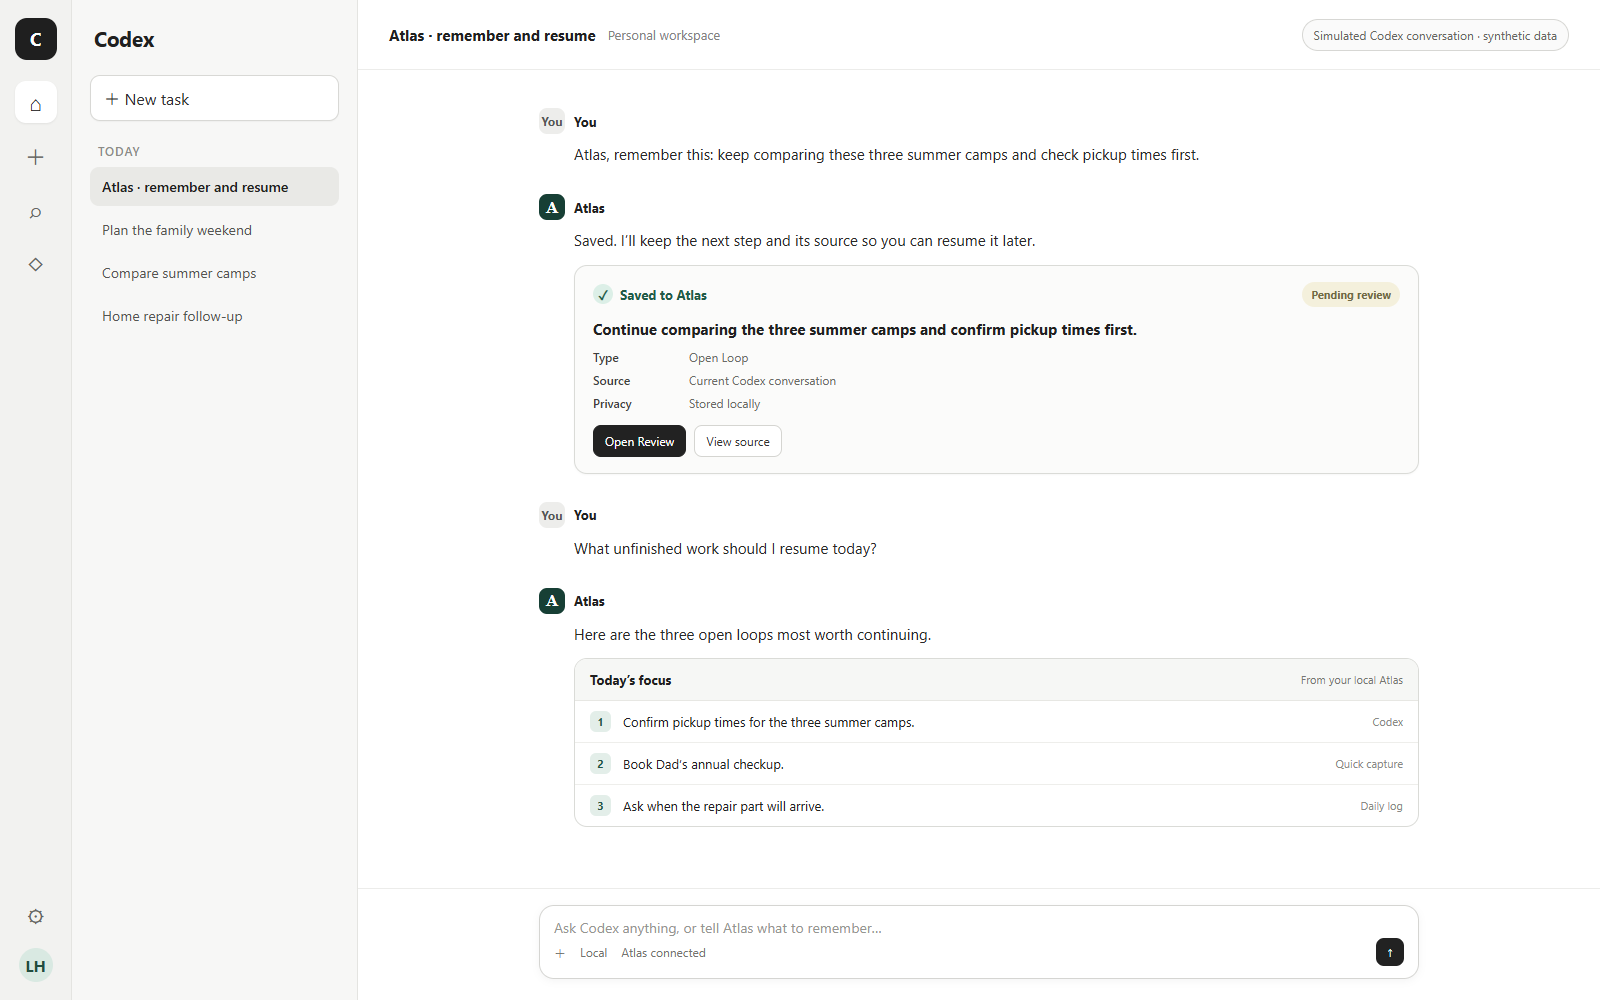
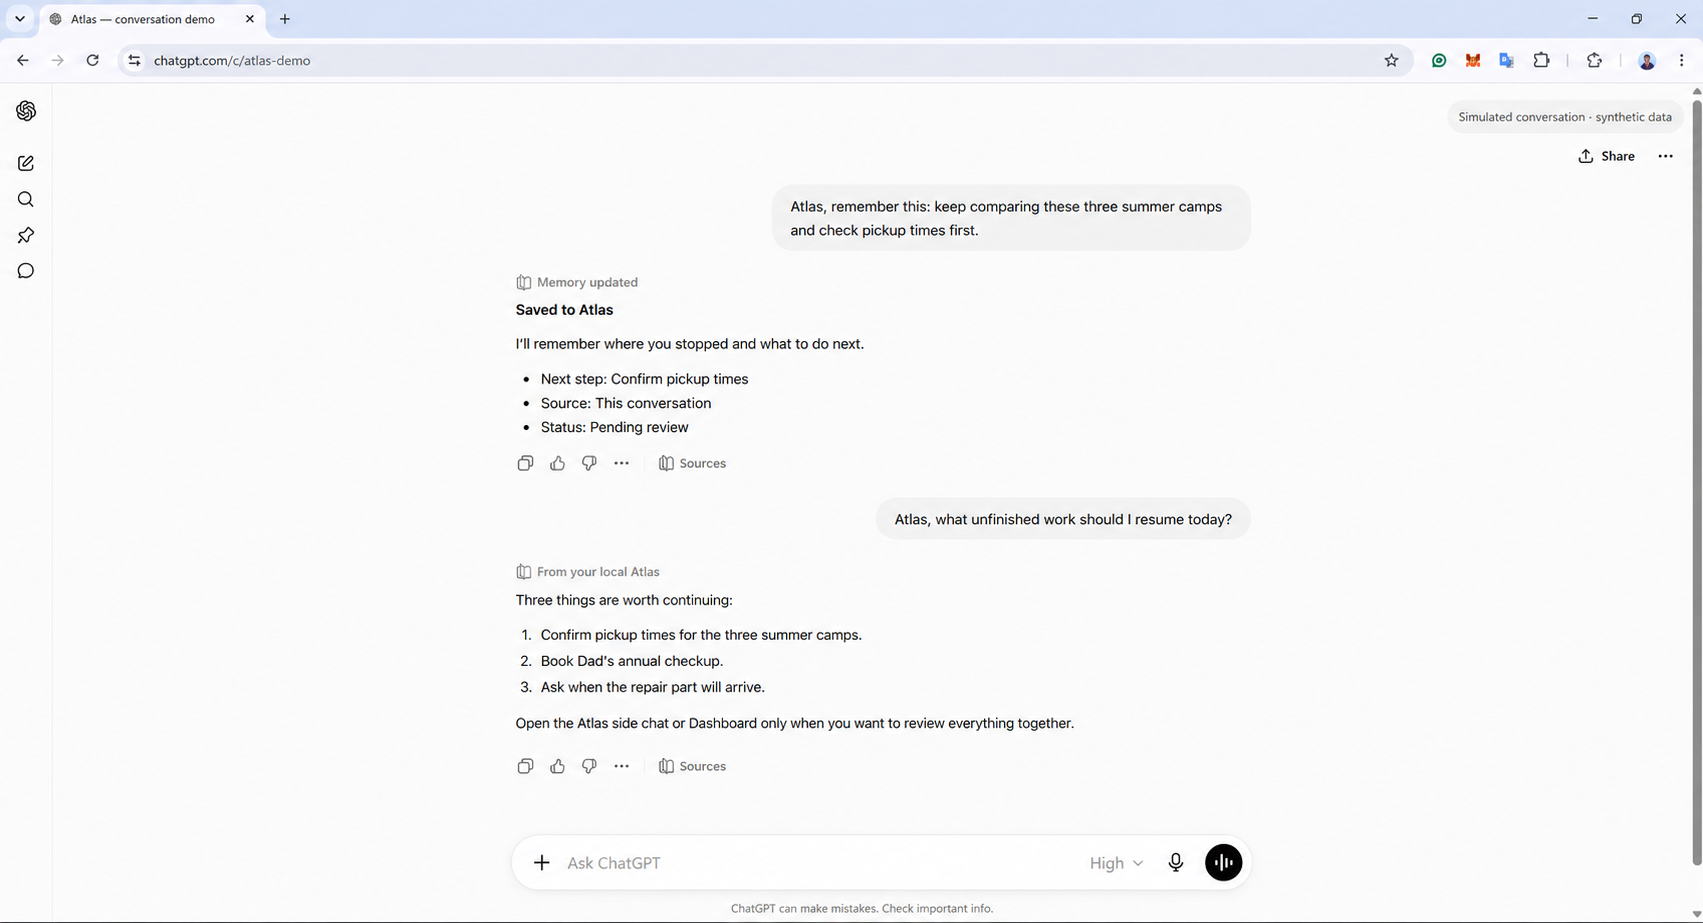
docs: make Atlas chat visual host-realistic (#14)

diff --git a/scripts/competition/codex-atlas-conversation.html b/scripts/competition/codex-atlas-conversation.html
@@ -42,25 +42,12 @@
     .mini-avatar.user { background: #ededeb; color: #555; }
     .mini-avatar.atlas { background: #173f35; color: #fff; font-family: Georgia, serif; font-size: 15px; }
     .message p { margin: 0 0 10px 35px; font-size: 15px; line-height: 1.55; color: #292928; }
-    .capture-card { margin: 12px 0 0 35px; border: 1px solid #dadbd7; border-radius: 13px; background: #fbfbfa; padding: 16px 18px; box-shadow: 0 1px 2px #00000008; }
-    .card-top { display: flex; align-items: center; justify-content: space-between; margin-bottom: 12px; }
-    .saved { color: #215b48; font-weight: 700; font-size: 13px; display: flex; align-items: center; gap: 7px; }
-    .saved-dot { width: 20px; height: 20px; border-radius: 50%; background: #dcefe7; display: grid; place-items: center; }
-    .pending { color: #716a44; background: #f4f0dc; border-radius: 999px; padding: 5px 9px; font-size: 11px; font-weight: 650; }
-    .capture-title { font-size: 15px; font-weight: 700; margin-bottom: 10px; }
-    .metadata { display: grid; grid-template-columns: 84px 1fr; gap: 7px 12px; color: #6b6b67; font-size: 12px; }
-    .metadata b { color: #3f3f3d; font-weight: 600; }
-    .card-actions { display: flex; gap: 8px; margin-top: 14px; }
-    .card-actions button { border: 1px solid #d5d5d1; border-radius: 8px; padding: 7px 11px; background: white; font-size: 12px; color: #333; }
-    .card-actions button.primary { background: #222; color: white; border-color: #222; }
-    .focus-card { margin: 12px 0 0 35px; border: 1px solid #dadbd7; border-radius: 13px; overflow: hidden; background: #fff; }
-    .focus-heading { padding: 12px 15px; background: #f6f7f5; border-bottom: 1px solid #e7e7e3; display: flex; justify-content: space-between; align-items: center; }
-    .focus-heading strong { font-size: 13px; }
-    .focus-heading span { color: #767672; font-size: 11px; }
-    .focus-item { padding: 10px 15px; display: grid; grid-template-columns: 24px 1fr auto; gap: 9px; align-items: center; border-bottom: 1px solid #eeeeeb; font-size: 13px; }
-    .focus-item:last-child { border-bottom: 0; }
-    .number { width: 21px; height: 21px; border-radius: 6px; background: #e3eee9; color: #225345; display: grid; place-items: center; font-size: 11px; font-weight: 700; }
-    .source { color: #8a8a86; font-size: 11px; }
+    .status-line { margin: 2px 0 8px 35px; color: #81817d; font-size: 12px; }
+    .assistant-copy { margin-left: 35px; font-size: 15px; line-height: 1.55; }
+    .assistant-copy strong { display: block; margin-bottom: 7px; }
+    .assistant-copy ul, .assistant-copy ol { margin: 7px 0 10px 22px; padding: 0; }
+    .assistant-copy li { margin: 5px 0; }
+    .sources { color: #777773; font-size: 12px; margin-top: 8px; }
     .composer-wrap { border-top: 1px solid #ececea; padding: 16px 66px 20px; }
     .composer { max-width: 880px; height: 74px; margin: 0 auto; border: 1px solid #d5d5d2; border-radius: 15px; background: white; box-shadow: 0 2px 8px #0000000b; padding: 12px 14px; display: flex; flex-direction: column; justify-content: space-between; }
     .placeholder { color: #969692; font-size: 14px; }
@@ -71,7 +58,7 @@
 </head>
 <body>
   <div class="app">
-    <aside class="rail" aria-label="Codex navigation">
+    <aside class="rail" aria-label="Chat navigation">
       <div class="mark">C</div>
       <div class="rail-icon active">⌂</div>
       <div class="rail-icon">＋</div>
@@ -79,10 +66,10 @@
       <div class="rail-icon">◇</div>
       <div class="rail-spacer"></div>
       <div class="rail-icon">⚙</div>
-      <div class="avatar">LH</div>
+      <div class="avatar">U</div>
     </aside>
     <aside class="sidebar">
-      <h1>Codex</h1>
+      <h1>ChatGPT</h1>
       <button class="new-task">＋ New task</button>
       <div class="section-label">Today</div>
       <div class="thread active">Atlas · remember and resume</div>
@@ -92,8 +79,8 @@
     </aside>
     <main class="main">
       <header class="topbar">
-        <div class="title-wrap"><strong>Atlas · remember and resume</strong><span class="workspace">Personal workspace</span></div>
-        <div class="demo-label">Simulated Codex conversation · synthetic data</div>
+        <div class="title-wrap"><strong>Atlas · remember and resume</strong><span class="workspace">Conversation concept</span></div>
+        <div class="demo-label">Simulated conversation · synthetic data</div>
       </header>
       <section class="conversation">
         <div class="conversation-inner">
@@ -103,12 +90,12 @@
           </article>
           <article class="message">
             <div class="message-head"><span class="mini-avatar atlas">A</span><span>Atlas</span></div>
-            <p>Saved. I’ll keep the next step and its source so you can resume it later.</p>
-            <div class="capture-card">
-              <div class="card-top"><div class="saved"><span class="saved-dot">✓</span>Saved to Atlas</div><span class="pending">Pending review</span></div>
-              <div class="capture-title">Continue comparing the three summer camps and confirm pickup times first.</div>
-              <div class="metadata"><b>Type</b><span>Open Loop</span><b>Source</b><span>Current Codex conversation</span><b>Privacy</b><span>Stored locally</span></div>
-              <div class="card-actions"><button class="primary">Open Review</button><button>View source</button></div>
+            <div class="status-line">▱ Memory updated</div>
+            <div class="assistant-copy">
+              <strong>Saved to Atlas</strong>
+              I’ll remember where you stopped and what to do next.
+              <ul><li>Next step: Confirm pickup times</li><li>Source: This conversation</li><li>Status: Pending review</li></ul>
+              <div class="sources">▱ Sources</div>
             </div>
           </article>
           <article class="message">
@@ -117,19 +104,19 @@
           </article>
           <article class="message">
             <div class="message-head"><span class="mini-avatar atlas">A</span><span>Atlas</span></div>
-            <p>Here are the three open loops most worth continuing.</p>
-            <div class="focus-card">
-              <div class="focus-heading"><strong>Today’s focus</strong><span>From your local Atlas</span></div>
-              <div class="focus-item"><span class="number">1</span><span>Confirm pickup times for the three summer camps.</span><span class="source">Codex</span></div>
-              <div class="focus-item"><span class="number">2</span><span>Book Dad’s annual checkup.</span><span class="source">Quick capture</span></div>
-              <div class="focus-item"><span class="number">3</span><span>Ask when the repair part will arrive.</span><span class="source">Daily log</span></div>
+            <div class="status-line">▱ From your local Atlas</div>
+            <div class="assistant-copy">
+              Three things are worth continuing:
+              <ol><li>Confirm pickup times for the three summer camps.</li><li>Book Dad’s annual checkup.</li><li>Ask when the repair part will arrive.</li></ol>
+              Open the Atlas side chat or Dashboard only when you want to review everything together.
+              <div class="sources">▱ Sources</div>
             </div>
           </article>
         </div>
       </section>
       <footer class="composer-wrap">
         <div class="composer">
-          <div class="placeholder">Ask Codex anything, or tell Atlas what to remember…</div>
+          <div class="placeholder">Ask ChatGPT anything, or tell Atlas what to remember…</div>
           <div class="composer-bottom"><div class="tools"><span>＋</span><span>Local</span><span>Atlas connected</span></div><span class="send">↑</span></div>
         </div>
       </footer>

diff --git a/README.md b/README.md
@@ -14,9 +14,9 @@ Life rarely lets you finish one thing before the next begins. A call comes in, y
 
 **Atlas remembers: Where did you stop? What should you do next? Why is it worth continuing?**
 
-![Simulated Codex conversation using Atlas with synthetic daily-life examples](docs/assets/atlas-codex-conversation.png)
+![Simulated conversation-first Atlas experience based on the provided ChatGPT interface](docs/assets/atlas-codex-conversation.png)
 
-*Simulated Codex conversation using synthetic data. The exact host layout may change between Codex versions.*
+*Conversation-first interaction concept using synthetic data and the provided ChatGPT interface as its visual reference. Atlas currently ships as a local Codex plugin; the exact host layout and available surfaces may vary.*
 
 ## Use Atlas in 30 seconds
 
@@ -76,6 +76,8 @@ Atlas is designed around two everyday actions:
 An explicit Codex capture stores only the content you deliberately give Atlas; it does not silently archive the whole current conversation. A manually imported ChatGPT Export is different: imported conversations are stored locally so Atlas can extract candidates, search them, and preserve source traceability.
 
 Newly extracted items enter **Review** before becoming accepted actions or decisions. Atlas does not execute imported instructions or open imported URLs. The Dashboard is an optional workspace for reviewing, searching, merging duplicates, scheduling, completing, or dismissing records.
+
+In the main conversation, Atlas responds as ordinary assistant text with a lightweight save or source status. It does not embed the Dashboard in the conversation body. A supported host may show a compact Atlas summary in a side chat, while the full Dashboard remains a separate local workspace.
 
 Atlas is not a general chat archive and does not claim automatic access to all ChatGPT or Codex history. ChatGPT Export is a manual historical fallback.
 

diff --git a/README.zh-CN.md b/README.zh-CN.md
@@ -10,9 +10,9 @@
 
 **它会替你记住：刚才做到哪里？下一步做什么？为什么值得继续？**
 
-![模拟的最新版 Codex 对话，通过 Atlas 记录和继续日常事项](docs/assets/atlas-codex-conversation.png)
+![以用户提供的 ChatGPT 界面为参考，模拟 Atlas 对话优先的使用体验](docs/assets/atlas-codex-conversation.png)
 
-*模拟的 Codex 对话，全部使用合成数据；Codex 不同版本的具体界面可能有所变化。*
+*使用合成数据的对话优先体验概念图，以用户提供的 ChatGPT 界面为视觉参考。Atlas 当前正式交付的是本地 Codex 插件；不同宿主的具体界面和可用入口可能有所变化。*
 
 ## 30 秒理解 Atlas
 
@@ -72,6 +72,8 @@ Atlas 围绕两个最常用的动作设计：
 Codex 对话中的主动记录只保存你明确交给 Atlas 的内容，不会自动保存当前整段会话。通过 ChatGPT Export 手动导入的对话则会保存在本地，用于提取候选项、搜索和来源追踪。
 
 新提取的内容会先进入 **Review**，确认后才成为正式行动或决定。Atlas 不会执行导入内容中的命令，也不会打开导入内容中的 URL。Dashboard 是一个可选的集中工作区，可以审核、搜索、合并重复项、安排、完成或主动放弃记录。
+
+在主对话正文中，Atlas 只使用普通助手文字和轻量的保存或来源状态进行回复，不会把 Dashboard 嵌入正文。支持相应能力的宿主最多可以在 side chat 中显示紧凑摘要，完整 Dashboard 始终是独立的本地管理页面。
 
 Atlas 不是完整聊天归档工具，也不宣称可以自动读取全部 ChatGPT 或 Codex 历史。ChatGPT Export 只是手动导入历史的兜底方式。
 